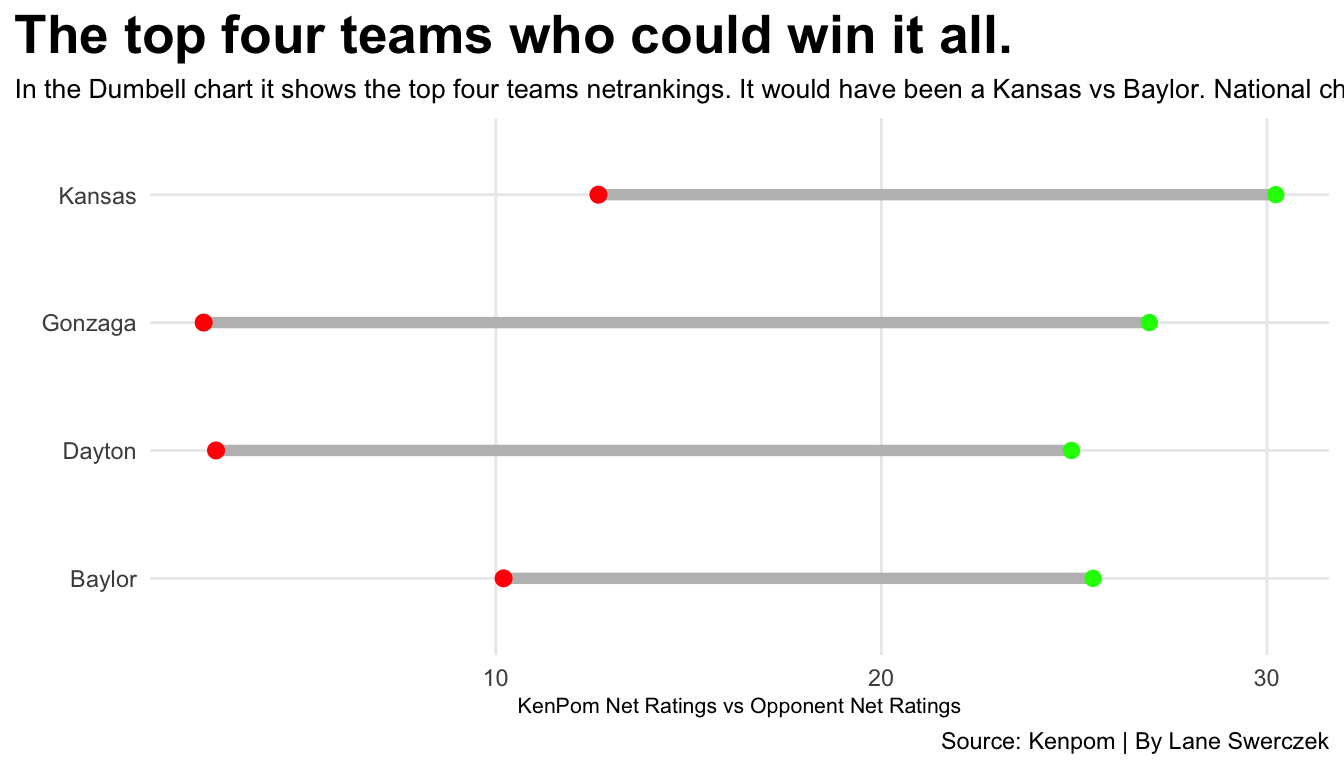
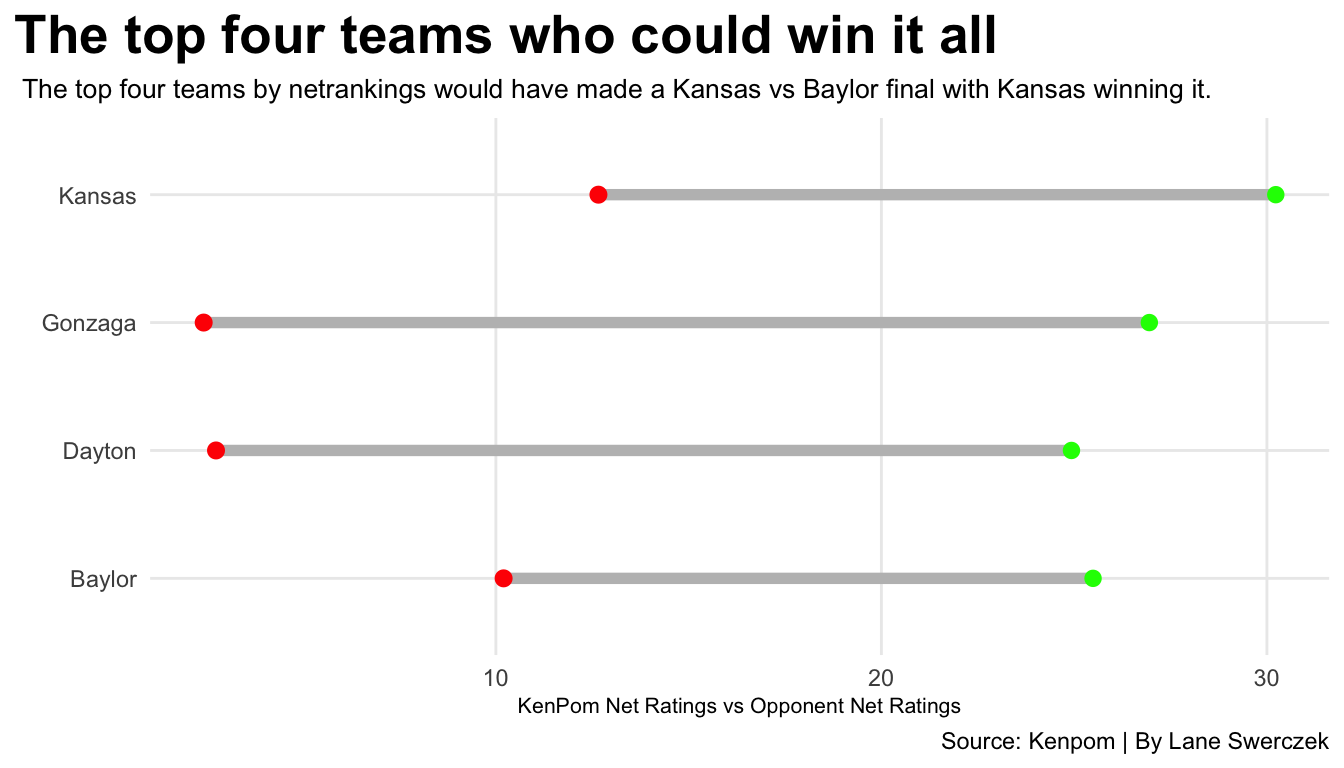
summary

Changed region(s): [[0.0, 0.0938, 1.0, 0.1562]]

diff --git a/posts/who-would-of-won-the-2020 championship/index.html b/posts/who-would-of-won-the-2020 championship/index.html
@@ -309,7 +309,7 @@ pre > code.sourceCode > span > a:first-child::before { text-decoration: underlin
 <span id="cb2-60"><a href="#cb2-60" aria-hidden="true" tabindex="-1"></a>   <span class="fu">labs</span>(</span>
 <span id="cb2-61"><a href="#cb2-61" aria-hidden="true" tabindex="-1"></a>    <span class="at">x=</span><span class="st">""</span>, </span>
 <span id="cb2-62"><a href="#cb2-62" aria-hidden="true" tabindex="-1"></a>    <span class="at">y=</span><span class="st">"Strength of Schedule"</span>, </span>
-<span id="cb2-63"><a href="#cb2-63" aria-hidden="true" tabindex="-1"></a>    <span class="at">title=</span><span class="st">"These are the top eight teams that could win."</span>, </span>
+<span id="cb2-63"><a href="#cb2-63" aria-hidden="true" tabindex="-1"></a>    <span class="at">title=</span><span class="st">"These are the top eight teams that could win"</span>, </span>
 <span id="cb2-64"><a href="#cb2-64" aria-hidden="true" tabindex="-1"></a>    <span class="at">subtitle=</span><span class="st">"Kansas had the hardest strength of schedule with Gonzaga having the easiest."</span>, </span>
 <span id="cb2-65"><a href="#cb2-65" aria-hidden="true" tabindex="-1"></a>    <span class="at">caption=</span><span class="st">"Source: NCAA Basketball | By Lane Swerczek"</span></span>
 <span id="cb2-66"><a href="#cb2-66" aria-hidden="true" tabindex="-1"></a>    )</span></code></pre></div><button title="Copy to Clipboard" class="code-copy-button"><i class="bi"></i></button></div>
@@ -349,8 +349,8 @@ pre > code.sourceCode > span > a:first-child::before { text-decoration: underlin
 <span id="cb3-20"><a href="#cb3-20" aria-hidden="true" tabindex="-1"></a>   <span class="fu">labs</span>(</span>
 <span id="cb3-21"><a href="#cb3-21" aria-hidden="true" tabindex="-1"></a>    <span class="at">x=</span><span class="st">"KenPom Net Ratings vs Opponent Net Ratings"</span>, </span>
 <span id="cb3-22"><a href="#cb3-22" aria-hidden="true" tabindex="-1"></a>    <span class="at">y=</span><span class="st">""</span>, </span>
-<span id="cb3-23"><a href="#cb3-23" aria-hidden="true" tabindex="-1"></a>    <span class="at">title=</span><span class="st">"The top four teams who could win it all."</span>, </span>
-<span id="cb3-24"><a href="#cb3-24" aria-hidden="true" tabindex="-1"></a>    <span class="at">subtitle=</span><span class="st">"In the Dumbell chart it shows the top four teams netrankings. It would have been a Kansas vs Baylor. National chapionship with Kansas winning it."</span>, </span>
+<span id="cb3-23"><a href="#cb3-23" aria-hidden="true" tabindex="-1"></a>    <span class="at">title=</span><span class="st">"The top four teams who could win it all"</span>, </span>
+<span id="cb3-24"><a href="#cb3-24" aria-hidden="true" tabindex="-1"></a>    <span class="at">subtitle=</span><span class="st">" The top four teams by netrankings would have made a Kansas vs Baylor final with Kansas winning it."</span>, </span>
 <span id="cb3-25"><a href="#cb3-25" aria-hidden="true" tabindex="-1"></a>    <span class="at">caption=</span><span class="st">"Source: Kenpom | By Lane Swerczek"</span></span>
 <span id="cb3-26"><a href="#cb3-26" aria-hidden="true" tabindex="-1"></a>    )</span></code></pre></div><button title="Copy to Clipboard" class="code-copy-button"><i class="bi"></i></button></div>
 </details>

diff --git a/index.html b/index.html
@@ -209,7 +209,7 @@ window.Quarto = {
 
 <div class="quarto-listing quarto-listing-container-default" id="listing-listing">
 <div class="list quarto-listing-default">
-<div class="quarto-post image-right" data-index="0" data-categories="TkNBQSUyQ0NCQiUyQ0NPVklE" data-listing-date-sort="1765778400000" data-listing-file-modified-sort="1764964286653" data-listing-date-modified-sort="NaN" data-listing-reading-time-sort="5" data-listing-word-count-sort="942">
+<div class="quarto-post image-right" data-index="0" data-categories="TkNBQSUyQ0NCQiUyQ0NPVklE" data-listing-date-sort="1765778400000" data-listing-file-modified-sort="1764964429526" data-listing-date-modified-sort="NaN" data-listing-reading-time-sort="5" data-listing-word-count-sort="942">
 <div class="thumbnail"><a href="./posts/who-would-of-won-the-2020 championship/index.html" class="no-external">
 
 <img loading="lazy" src="./posts/who-would-of-won-the-2020 championship/image.png" class="thumbnail-image">
